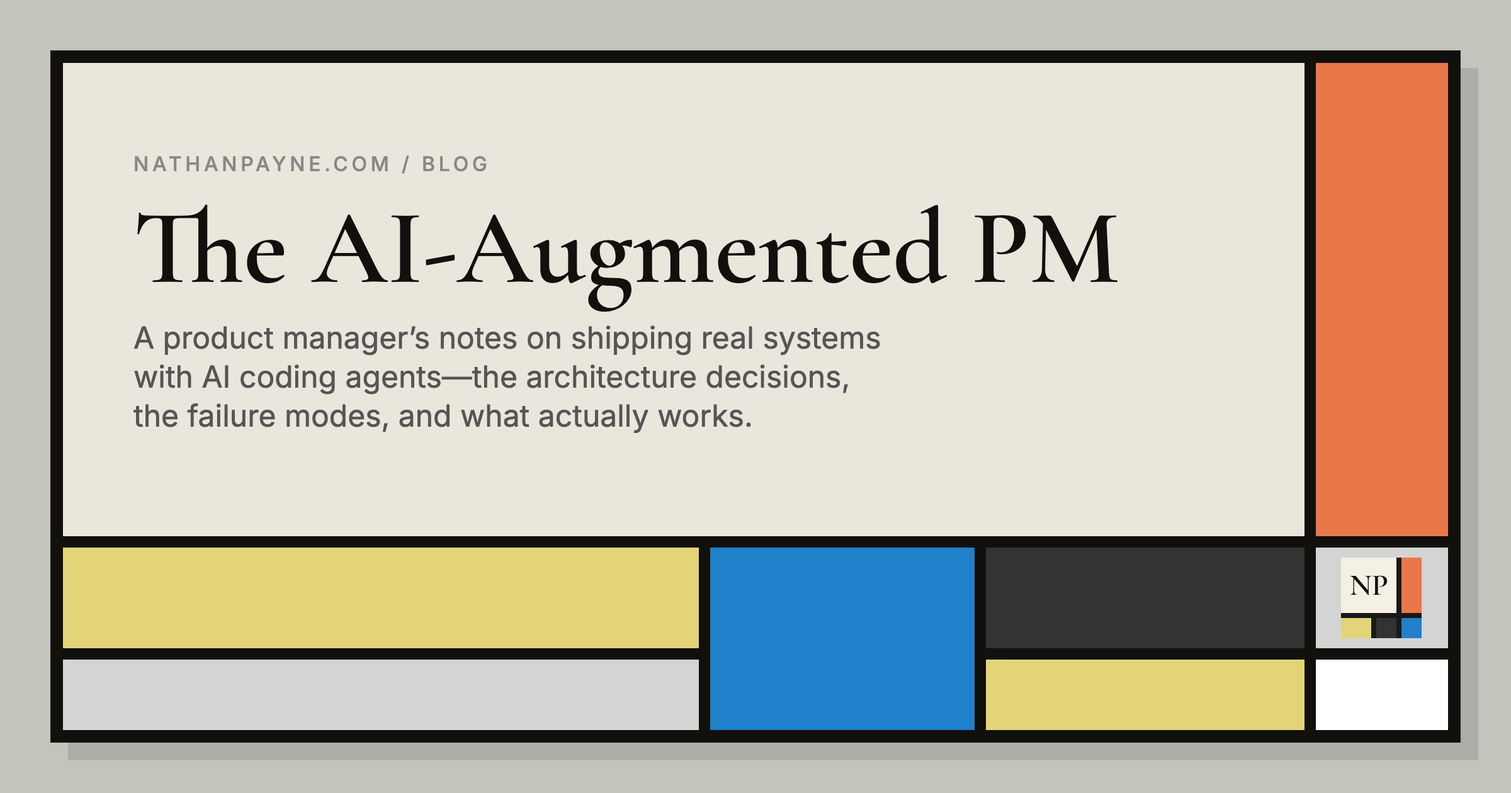
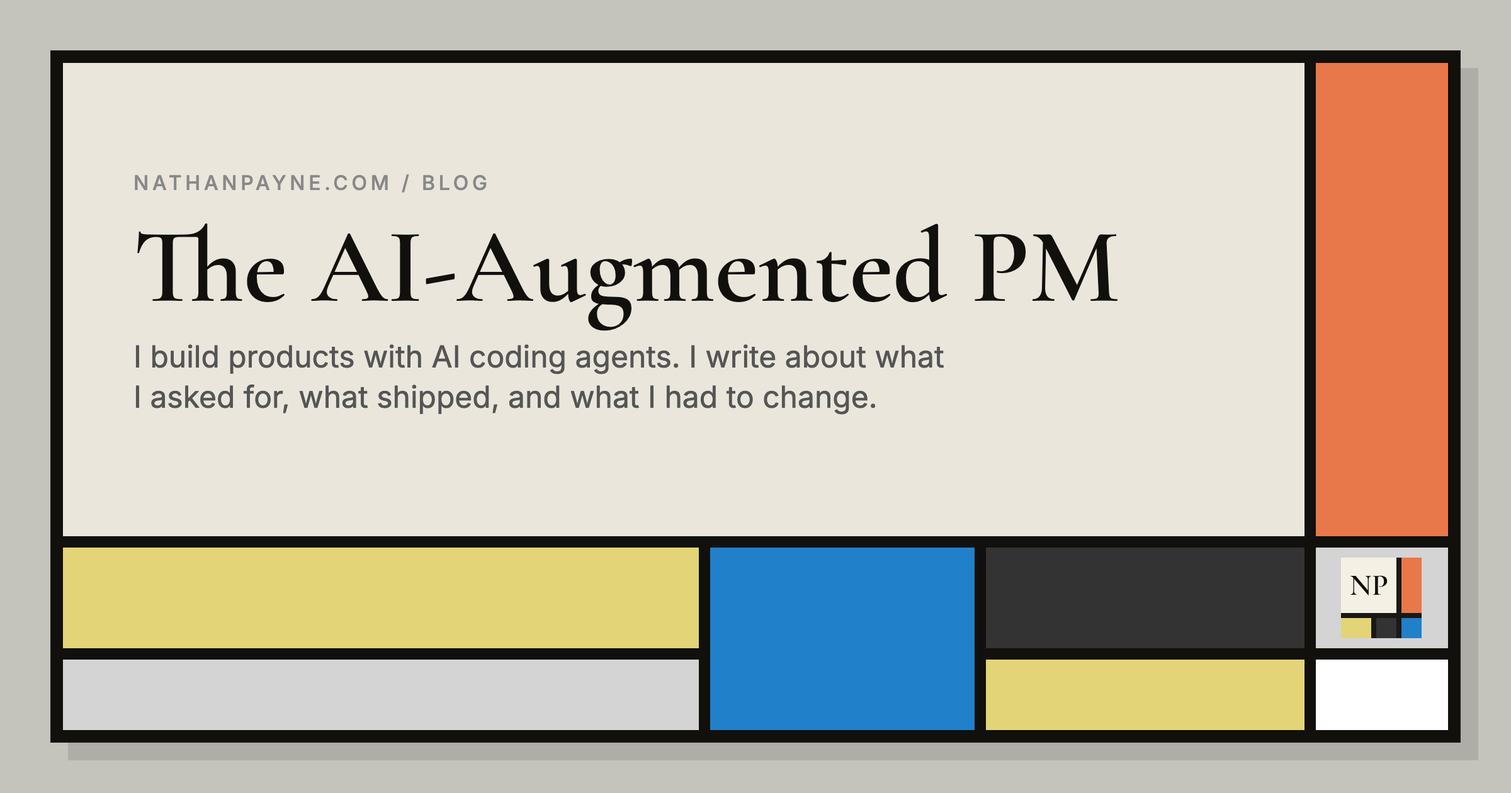
Refine blog index voice and share site copy with social previews (#1160)

Changed region(s): [[0.0938, 0.1857, 0.75, 0.5571]]

diff --git a/tests/blog-pages.test.js b/tests/blog-pages.test.js
@@ -3,6 +3,7 @@ import { readFileSync } from 'fs';
 import { resolve } from 'path';
 import { EXPECTED_BLOG_EDITORIAL_ORDER } from './helpers/blog-editorial-order.js';
 import { writeSanitizedDOM } from './helpers/dom.js';
+import { parseFrontmatter } from '../scripts/lib/parse-frontmatter.mjs';
 
 const homepageHtml = readFileSync(resolve(__dirname, '../dist/index.html'), 'utf-8');
 const blogIndexHtml = readFileSync(resolve(__dirname, '../dist/blog/index.html'), 'utf-8');
@@ -11,6 +12,15 @@ const blogPostHtml = readFileSync(
   'utf-8',
 );
 const firebaseConfig = JSON.parse(readFileSync(resolve(__dirname, '../firebase.json'), 'utf-8'));
+const rawBlogPageCopy = parseFrontmatter(
+  readFileSync(resolve(__dirname, '../src/content/site-copy/blog.md'), 'utf-8'),
+);
+const blogPageCopy = {
+  title: rawBlogPageCopy.title.trim(),
+  description: rawBlogPageCopy.description.trim(),
+  homepageWritingDescription: rawBlogPageCopy.homepageWritingDescription.trim(),
+};
+const ogCards = JSON.parse(readFileSync(resolve(__dirname, '../.astro/og-cards.json'), 'utf-8'));
 
 function setupDOM(html) {
   // Scripts are removed on a detached document and the doctype preserved by
@@ -59,18 +69,52 @@ describe('Blog Pages', () => {
     const ogImage = document.querySelector('meta[property="og:image"]');
     const twitterTitle = document.querySelector('meta[name="twitter:title"]');
 
-    expect(title?.textContent).toBe('The AI-Augmented PM | Nathan Payne');
-    expect(heading?.textContent).toBe('The AI-Augmented PM');
+    expect(title?.textContent).toBe(`${blogPageCopy.title} | Nathan Payne`);
+    expect(heading?.textContent).toBe(blogPageCopy.title);
     expect(canonical?.getAttribute('href')).toBe('https://nathanpayne.com/blog/');
     expect(postLink).not.toBeNull();
-    expect(ogTitle?.getAttribute('content')).toBe('The AI-Augmented PM | Nathan Payne');
-    expect(twitterTitle?.getAttribute('content')).toBe('The AI-Augmented PM | Nathan Payne');
+    expect(ogTitle?.getAttribute('content')).toBe(`${blogPageCopy.title} | Nathan Payne`);
+    expect(twitterTitle?.getAttribute('content')).toBe(`${blogPageCopy.title} | Nathan Payne`);
     // og:image carries a ?v=<hash> cache-busting query so social
     // platforms re-fetch the image after each deploy (see commit 49d2c39).
     // The base URL stays stable; only the query varies.
     expect(ogImage?.getAttribute('content')).toMatch(
       /^https:\/\/nathanpayne\.com\/og\/blog\.png\?v=[A-Za-z0-9_-]+$/,
     );
+  });
+
+  it('uses the page frontmatter description for the blog introduction and metadata', () => {
+    setupDOM(blogIndexHtml);
+
+    expect(document.querySelector('.hero .deck')?.textContent).toBe(blogPageCopy.description);
+    for (const selector of [
+      'meta[name="description"]',
+      'meta[property="og:description"]',
+      'meta[name="twitter:description"]',
+    ]) {
+      expect(document.querySelector(selector)?.getAttribute('content')).toBe(
+        blogPageCopy.description,
+      );
+    }
+    const jsonLd = JSON.parse(
+      document.querySelector('script[type="application/ld+json"]').textContent,
+    );
+    expect(jsonLd['@graph'].find((entry) => entry['@type'] === 'CollectionPage').description).toBe(
+      blogPageCopy.description,
+    );
+  });
+
+  it('uses the homepage rendition from page frontmatter for the Writing introduction', () => {
+    expect(document.querySelector('.about-block--writing p')?.textContent).toBe(
+      blogPageCopy.homepageWritingDescription,
+    );
+  });
+
+  it('renders the same frontmatter title and introduction on the blog social card', () => {
+    expect(ogCards.blog).toMatchObject({
+      heading: blogPageCopy.title,
+      description: blogPageCopy.description,
+    });
   });
 
   it('blog post page includes article metadata and screenshot embeds', () => {

diff --git a/src/content.config.ts b/src/content.config.ts
@@ -3,6 +3,15 @@ import { glob } from 'astro/loaders';
 import { BLOG_CATEGORIES, HOMEPAGE_WRITING_LIMIT } from './lib/blog-order';
 import { MUX_PLAYBACK_ID_PATTERN } from '../scripts/lib/mux-playback-id.mjs';
 
+const siteCopy = defineCollection({
+  loader: glob({ pattern: '**/*.md', base: './src/content/site-copy' }),
+  schema: z.object({
+    title: z.string().trim().min(1),
+    description: z.string().trim().min(1),
+    homepageWritingDescription: z.string().trim().min(1).optional(),
+  }),
+});
+
 const projects = defineCollection({
   // `projects` is the only collection that takes .mdx. A case-study page
   // interleaves DecisionLedger / ConstraintStrip / LearningLedger between
@@ -452,6 +461,7 @@ const certifications = defineCollection({
 });
 
 export const collections = {
+  siteCopy,
   blog,
   projects,
   bio,

diff --git a/plans/correctness-pass-2026-10-06/blog-index-voice-comparison.md b/plans/correctness-pass-2026-10-06/blog-index-voice-comparison.md
@@ -1,0 +1,170 @@
+# Blog index and homepage: approval document
+
+Updated on 2026-10-07 after owner copy approval. Draft: `codex/blog-index-voice` in the attached `blog-index-voice` worktree. Baseline: `68827d183093fdc9500c0263b1078751067ae2fd`, the deployed Perfect Score merge. This is the owner-approved copy and supporting implementation prepared for the PR; it has not been merged or deployed.
+
+The patch was rebased onto current main `c28f782e6ede4c93395d5d6f2fc70606c12ed7c5`; the additional main change is a separate Five Across audit record and does not alter these article or template sources.
+
+## Approval scope
+
+This document shows all ten final blog cards, both introductions, and every supporting file change. The owner approved the copy in the chat on 2026-10-07, including the 270-character Perfect Score deck and the 261-character Silence deck, and requested two final changes before the PR: trim Every Reviewer and rename the shared source folder to site-copy with collection siteCopy. Both are applied. These three cards differ from main; the other seven retain their approved descriptions. Approval authority remains the owner's messages in the chat.
+
+## Introductions and social preview
+
+**Blog introduction and social preview: 111 characters**
+
+> I build products with AI coding agents. I write about what I asked for, what shipped, and what I had to change.
+
+**Homepage Writing introduction: 57 characters**
+
+> I write about the products I build with AI coding agents.
+
+Both use “products.” The homepage is a deliberately shorter rendition, rather than a near-duplicate. The blog introduction fits the social card, so that card uses the same description with no separate OG version. The visible page, its metadata and CollectionPage structured data, and the social card all read that one field.
+
+Before, the blog and social template each held:
+
+> A product manager’s notes on shipping real systems with AI coding agents—the architecture decisions, the failure modes, and what actually works.
+
+Before, the homepage Writing introduction was:
+
+> Selected writing on shipping software with AI coding agents—scope, review, and the decisions that don’t show up in the diff.
+
+## All ten blog cards
+
+Order matches the current index. Counts measure Unicode characters in the parsed frontmatter description, including spaces and punctuation, without the YAML quotes. The requested review band is 242–275 characters. All ten cards are within it. Every Reviewer is now 273 characters after the owner-requested punctuation trim.
+
+**1. [The Product Did Not Travel](../../src/content/blog/the-product-did-not-travel.md): 242 characters; unchanged from main**
+
+> A bingo app built for a cruise ran a second event for a different host. By Saturday afternoon, nobody was marking squares. The host's account sent me back to the cruise data, where a dinner ritual had been hiding inside the engagement totals.
+
+**2. [Silence Is Not an Approval](../../src/content/blog/silence-is-not-an-approval.md): 261 characters; revised in this follow-up**
+
+> My review pipeline kept counting a reviewer that hadn't answered as one that had. Local fixes helped, but each path still decided what silence could prove. I set a rule for one kind of silence and accepted the extra waiting. The broader contract isn't finished.
+
+**3. [Every Reviewer Was Right, and the Pull Request Was Still Wrong](../../src/content/blog/every-reviewer-was-right.md): 273 characters; revised in this follow-up**
+
+> Two pull requests drew 72 Codex findings. I couldn't fault one; both closed unmerged. One grew from 35 lines to 2,136 for a requirement that later shipped in 377. I was asked five times how to proceed, never whether the machinery under review still belonged in the product.
+
+**4. [1,513 Lines for One Dash: The Requirement Nobody Questioned](../../src/content/blog/autofix-was-the-whole-cost.md): 246 characters; unchanged from main**
+
+> I wanted this site to follow one Chicago rule. An unrequested auto-fixer drew 42 of 57 review findings; cutting it ended the rewrite-safety churn. Without an adapter, the replacement linter would've skipped post metadata and still reported green.
+
+**5. [A Perfect Score on the Wrong Axis: 116 Review Findings, Zero Rejected, One Escape](../../src/content/blog/perfect-score-wrong-axis.md): 270 characters; revised in this follow-up**
+
+> An eleven-PR batch recorded 122 dispositions; no finding was rejected as factually wrong. A P1 shipped; its post-merge finding joined the tally. The rule it broke had been raised on a sibling PR twelve hours earlier, then fixed and validated there before this PR merged.
+
+**6. [The HTML Mock-up Is the Spec: How I Got Visual Work Out of Claude Code](../../src/content/blog/html-mockups-as-spec.md): 250 characters; unchanged from main**
+
+> Claude kept giving me layouts that didn't match what I had in mind. I asked it for standalone HTML mock-ups, picked a target, then handed it back beside the live page: make this look like that. I still had to keep the decision and check what shipped.
+
+**7. [Agent Approval Workflow and the Genesis of Mergepath](../../src/content/blog/agent-approval-workflow-genesis-of-mergepath.md): 274 characters; unchanged from main**
+
+> The agents knew the review rule and still pushed straight to main. I added branch rules, reviewer identities, and automated outside review to make the process harder to skip. Three weeks of failures became the system behind Mergepath, with each control's limits spelled out.
+
+**8. [Six PRs, One Bug: What AI Agents Actually Get Wrong](../../src/content/blog/six-prs-one-bug-agent-failure-modes.md): 263 characters; unchanged from main**
+
+> My billing app showed different formatting in the editor, preview, and sent email. After six PRs, I gave the next agent a brief that required an audit before more code. The fix brought Preview and the test email together, but didn't reach the recipient's invoice.
+
+**9. [Two Blues, One Composition: How a Design Critique Became a Forensics Exercise](../../src/content/blog/two-blues-one-composition.md): 243 characters; unchanged from main**
+
+> Claude found two blues in my Mondrian-inspired projects page. I could defend both sources; the page still looked wrong. Sampling two painting reproductions helped me choose a palette rule, and showed which of the model's numbers had no source.
+
+**10. [How Making a Page Responsive Led to a Full Astro Site Implementation](../../src/content/blog/how-a-responsive-fix-became-an-astro-migration.md): 249 characters; unchanged from main**
+
+> Fixing a mobile bug put me face to face with a blog generator that couldn't reproduce its own output. Four hours later, an Astro scaffold merged. I chose a build chain to make publishing practical, knowing it would bring maintenance work of its own.
+
+## Changed decks: before and after
+
+**Perfect Score**
+
+Before on main: 325 characters:
+
+> An eleven-PR review batch recorded 122 dispositions and zero findings rejected as factually wrong. The finding for the P1 that shipped was deferred to follow-up 75 seconds after it was posted. The rule the defect turned on had been raised on a sibling PR twelve hours earlier; the implementation was then fixed and validated.
+
+After: 270 characters:
+
+> An eleven-PR batch recorded 122 dispositions; no finding was rejected as factually wrong. A P1 shipped; its post-merge finding joined the tally. The rule it broke had been raised on a sibling PR twelve hours earlier, then fixed and validated there before this PR merged.
+
+The new deck explicitly places the finding after merge. “There before this PR merged” identifies the sibling as the location of the earlier fix and validation. Twelve hours still modifies when the rule was raised, rather than the fix or validation. “No finding was rejected as factually wrong” preserves the distinction from the two recorded process rebuttals. The finding joins the disposition tally, paying off the metric argument. The 75-second deferral interval is intentionally omitted from this shorter deck; it remains in takeaway 2, the body and the diagram.
+
+**Silence**
+
+Before on main: 255 characters:
+
+> My review pipeline kept counting a reviewer that hadn't answered as one that had. Local fixes helped, but each path still decided what silence could prove. I had to decide the rule myself, including what progress should cost when the evidence was missing.
+
+After: 261 characters:
+
+> My review pipeline kept counting a reviewer that hadn't answered as one that had. Local fixes helped, but each path still decided what silence could prove. I set a rule for one kind of silence and accepted the extra waiting. The broader contract isn't finished.
+
+The ending states the owner's decision and accepted cost. “One kind” preserves the partial scope. “Isn't finished” applies the owner's optional voice nit and leaves the wider contract incomplete from the article's dated vantage.
+
+**Every Reviewer**
+
+Before on main: 277 characters:
+
+> Two pull requests drew 72 Codex findings. I couldn't fault one, and both closed unmerged. One grew from 35 lines to 2,136 for a requirement that later shipped in 377. I was asked five times how to proceed, never whether the machinery under review still belonged in the product.
+
+After: 273 characters:
+
+> Two pull requests drew 72 Codex findings. I couldn't fault one; both closed unmerged. One grew from 35 lines to 2,136 for a requirement that later shipped in 377. I was asked five times how to proceed, never whether the machinery under review still belonged in the product.
+
+The owner's exact punctuation edit removes four characters without changing either claim or their relationship.
+
+## Shared frontmatter
+
+The new [site-copy entry](../../src/content/site-copy/blog.md) contains:
+
+```yaml
+---
+title: "The AI-Augmented PM"
+description: "I build products with AI coding agents. I write about what I asked for, what shipped, and what I had to change."
+homepageWritingDescription: "I write about the products I build with AI coding agents."
+---
+```
+
+It is loaded through Astro's new `siteCopy` collection, outside the blog-post collection. The owner-requested `site-copy` name distinguishes this content directory from Astro's `src/pages/` route directory. It does not create an eleventh post, change RSS ordering or alter the selected Writing links. The blog page and blog OG template read `title` and `description`; the homepage reads `homepageWritingDescription`. Every copy field has a consumer. There is no hardcoded fallback to the old introduction. The schema rejects blank fields, and the templates stop the build when their required entry or field is missing.
+
+## Every supporting change
+
+| File | Change |
+|---|---|
+| [src/content/site-copy/blog.md](../../src/content/site-copy/blog.md) | New shared frontmatter entry for the blog title/introduction/social copy and shorter homepage Writing introduction. |
+| [src/content.config.ts](../../src/content.config.ts) | Registers the siteCopy collection with non-empty title/description and an optional, non-empty homepage Writing field. |
+| [src/pages/blog/index.astro](../../src/pages/blog/index.astro) | Reads the shared page entry for the visible title, introduction, metadata and structured description; rejects a missing entry. |
+| [src/pages/og-templates/blog.astro](../../src/pages/og-templates/blog.astro) | Reads the same title and description; removes the copied literals and rejects a missing entry. |
+| [src/pages/index.astro](../../src/pages/index.astro) | Reads the homepage Writing rendition from the shared entry; rejects missing copy. Post title selection is unchanged. |
+| [src/content/blog/perfect-score-wrong-axis.md](../../src/content/blog/perfect-score-wrong-axis.md) | Changes only description to the 270-character deck shown above. |
+| [src/content/blog/silence-is-not-an-approval.md](../../src/content/blog/silence-is-not-an-approval.md) | Changes only description to the 261-character deck shown above. |
+| [src/content/blog/every-reviewer-was-right.md](../../src/content/blog/every-reviewer-was-right.md) | Changes only description: the approved “, and both closed unmerged” becomes “; both closed unmerged,” bringing the card from 277 to 273 characters. |
+| [plans/correctness-pass-2026-10-06/perfect-score-wrong-axis-ledger.md](../../plans/correctness-pass-2026-10-06/perfect-score-wrong-axis-ledger.md) | Updates existing R14/R21 descriptions and deck quotations in place; retains their evidence, verdicts and timings. |
+| [tests/blog-pages.test.js](../../tests/blog-pages.test.js) | Checks rendered blog title/introduction/metadata, homepage Writing copy and actual OG-card text against the frontmatter source. Existing title assertions now use that source. |
+| [screenshots/og/blog.png](../../screenshots/og/blog.png) | Refreshes only the blog-index social-card reference for the new introduction; generated output still comes from the build. |
+| [docs/agents/code-modification-rules.md](../../docs/agents/code-modification-rules.md) | Documents where page copy lives, its consumers and missing-copy behavior. |
+| [docs/agents/repository-overview.md](../../docs/agents/repository-overview.md) | Adds the shared page-copy source to the file inventory. |
+| [.ai_context.md](../../.ai_context.md) | Adds the same source to the entry-point map. |
+| [plans/correctness-pass-2026-10-06/blog-index-voice-comparison.md](../../plans/correctness-pass-2026-10-06/blog-index-voice-comparison.md) | This complete approval packet: all ten cards, introductions, file inventory, meaning review and validation. |
+
+All three changed article bodies are byte-identical to main. Every other post frontmatter field, including SEO descriptions, titles, dates, ranks, takeaways and pullquotes, is unchanged. No article heading, anchor, table, diagram, code, link or image moves or changes. There are no layout, route or ordering changes, new dependencies, checker changes, or edits to the earlier batch's disputed comparison counts.
+
+## Manual meaning review
+
+| Claim | Evidence and qualification |
+|---|---|
+| Perfect Score: 122 dispositions and no factual rejection | Existing ledger R13 and the article's disposition table. Two rebuttals are process objections; the new deck does not call them factual rejections. |
+| Perfect Score: finding after merge, then part of the tally | R14 records merge at 03:59:00Z, finding at 04:00:34Z and deferral at 04:01:49Z. The deck states the ordering; the body retains the 94- and 75-second intervals. |
+| Perfect Score: sibling finding, fix and validation | R21 records the July 29 15:45:37Z blocking finding, July 30 00:34:51Z validation and 03:59:00Z merge. The twelve-hour label belongs only to the finding, and the earlier fix was on the sibling. |
+| Silence: one rule and extra waiting | Its existing Decision section and ledger R29–R30 record the September 24 owner decision, September 25 implementation and accepted waits. Resume, retry, timeout and Codex failover remain. |
+| Silence: wider contract incomplete | Existing ledger R31 and the body leave #878 open for the shared contract, remaining states and downstream delivery, as of the dated article snapshot. This is not a fresh issue-state audit. |
+| Other seven cards | Their descriptions match the baseline exactly. The full index is shown here so these existing choices remain visible during approval. |
+
+## Validation and checker exception
+
+The final siteCopy rename and Every Reviewer trim build successfully across 43 pages. Lint passes; Vale retains advisory heading/table capitalization warnings under the sentence-case convention. Typecheck passes with zero errors and zero warnings. The complete unit suite passes 1,215 assertions with 6 skips, including the actual rendered OG-card/frontmatter regression. Source/rendered checks confirm all ten index cards, article decks and RSS descriptions match frontmatter, all ten article bodies match main byte for byte, every other post frontmatter field is unchanged, and every card is within 242–275 characters. The final browser suite passes 369 assertions with 51 skips against this exact build through the documented external-server fallback with file-by-file verification and the normal /404-to-/404.html mapping.
+
+A controlled frontmatter mutation changed the blog page/metadata, homepage and generated OG image. The image changed by 147,585 pixels above the comparison threshold. Blank title, description or homepage text failed validation; a missing homepage field or whole entry stopped the build. The draft source was restored after each probe. The blog image's existing fit check passed and its new text was visually inspected.
+
+For the current article sources, `verify-brevity.py` reports exactly one protected-token failure on Perfect Score: `75 seconds` occurs once less because it was deliberately removed from the deck. Its zero-to-no wording is advisory and preserves the rejection qualification. Every other protected token and every code/diagram/table block matches. Silence passes, with advisory notes for its description edit and the added word “one.” The checker is unchanged. This exception is supported by manual meaning review, not treated as proof of fidelity by the checker.
+
+Connective prose remains unchanged for all three edited articles: 3,132 words for Perfect Score and 1,738 for Silence; Every Reviewer's edit is punctuation and one conjunction in frontmatter only. Whole-file counts change from 4,276 to 4,267 and from 3,073 to 3,075 respectively. These are metadata edits, not another body compression pass.
+
+Chromium desktop hover/keyboard, mobile layout and reduced-motion probes passed. A WebKit probe initially timed out; a fresh-load check against both the deployed baseline build and this revised draft revealed the desktop content successfully. Both engines loaded the homepage, index and changed posts at 375px without overflow or uncaught script errors. This is Chromium/WebKit evidence; the native Safari app was not separately tested. Initial probe failures and the preview-runner fallback are preserved in the validation logs.

diff --git a/plans/correctness-pass-2026-10-06/perfect-score-wrong-axis-ledger.md b/plans/correctness-pass-2026-10-06/perfect-score-wrong-axis-ledger.md
@@ -30,7 +30,7 @@ Page source: `src/content/blog/perfect-score-wrong-axis.md`. Surface: `https://n
 | R18 | #797's own record: last of the batch, ~24 h; 27 badged findings in 8 Codex rounds; 5 CodeRabbit submissions, 3 pre-merge, 2 substantial; 5 Phase 4b reviews, 4 dismissed approvals, 5th on the exact head; 20 commits; every required check green; all but one finding dispositioned; 16 review objects + 2 clean acks = 18 passes before the escape | L16, L31, L45, L49, L120, L126, L186 | SUPPORTED | All reproduce (with R2's caveat on the +2); combined status `success`; the one unmarked thread is the CodeRabbit root at 23:04:07Z | `pulls/797`, `/reviews`, `/comments`; `commits/76f0ded3…/status` |
 | R19 | Five bare triggers 03:52:56–03:53:18 UTC, body `@coderabbitai, try again.`; CodeRabbit's "with focus on …" paraphrase and "does not re-review already reviewed commits"; two invocations finished with no findings, three bare acks; an earlier review trailed its ack by almost nine minutes; three earlier CodeRabbit reviews | L47 | SUPPORTED | Timestamps, bodies and counts reproduce; ack 01:39:33Z -> review 01:48:19Z = 8 m 46 s; pre-merge CodeRabbit reviews 23:04:08Z, 01:48:19Z, 02:01:58Z | `issues/797/comments`; `pulls/797/reviews` |
 | R20 | "#809 one minute later"; #810 merged 04:28:05 UTC, "twenty-eight minutes"; eight regression assertions (3 + 5 controls); 93/93; "the P1 from #797" | L51 | SUPPORTED | #809 at 04:01:29Z (55 s); 27 m 31 s finding to merge; 4 added `pass` lines, the fourth inside a 5-literal loop; approval body verbatim | `issues/809`; `pulls/810`; `git show 415d3178 -- tests/test_check_doc_ownership.sh`; `pulls/810/reviews` |
-| R21 | #791: title; merged 3 h 17 m before #797; five Codex findings from CommonMark's block rules; the P1 quotation; "markdown-it-py 4.2.0 agreement on 18 adversarial fixtures"; P1 12 h 13 m before the merge; deck and takeaway 2 attach twelve hours only to the finding, with fix/validation afterward; both PRs changed `tests/test_check_sync_manifest.sh`, the file the P1 names | description, takeaway 2, L21, L55, L128, L134, L180 | SUPPORTED | 6 Codex threads on #791, 5 of which name CommonMark (matcher stated); blocking review 4810248977 `CHANGES_REQUESTED` at 2026-07-29 15:45:37Z, 12 h 13 m 23 s before #797's merge, P1 at `tests/test_check_sync_manifest.sh:1361`; validation approval 4814102598 `APPROVED` at 2026-07-30 00:34:51Z, 3 h 24 m 09 s before #797's 03:59:00Z merge | `pulls/791`, `/comments`, `/reviews/4810248977`, `/reviews/4814102598`, `/files`; `pulls/797` `.merged_at`; `pulls/797/files` |
+| R21 | #791: title; merged 3 h 17 m before #797; five Codex findings from CommonMark's block rules; the P1 quotation; "markdown-it-py 4.2.0 agreement on 18 adversarial fixtures"; P1 12 h 13 m before the merge; deck and takeaway 2 attach twelve hours only to the finding, with sibling fix/validation afterward; the deck explicitly puts that validation before this PR merged; both PRs changed `tests/test_check_sync_manifest.sh`, the file the P1 names | description, takeaway 2, L21, L55, L128, L134, L180 | SUPPORTED | 6 Codex threads on #791, 5 of which name CommonMark (matcher stated); blocking review 4810248977 `CHANGES_REQUESTED` at 2026-07-29 15:45:37Z, 12 h 13 m 23 s before #797's merge, P1 at `tests/test_check_sync_manifest.sh:1361`; validation approval 4814102598 `APPROVED` at 2026-07-30 00:34:51Z, 3 h 24 m 09 s before #797's 03:59:00Z merge | `pulls/791`, `/comments`, `/reviews/4810248977`, `/reviews/4814102598`, `/files`; `pulls/797` `.merged_at`; `pulls/797/files` |
 | R22 | Backlog of nine issues (761, 774, 777, 780, 781, 782, 785, 786, 788); the three named items; "a backlog item about the backlog of the previous backlog batch" | L61 | SUPPORTED | Nine distinct issue numbers fall out of the ten batch PR titles; #774, #777, #785 titles as described; #781's title names the 2026-07-28 batch | `pulls/<N>` `.title`; `issues/{774,777,781,785}` `.title` |
 | R23 | Nine PRs #789–#797 opened within thirty-six seconds; joined by #800; all eleven show `nathanjohnpayne` as author; "about twenty-four hours" | L31, L63 | SUPPORTED | 04:12:07Z–04:12:43Z = 36 s; 23 h 46 m 53 s to #797's merge; `.user.login` identical on all eleven | `pulls/<N>` `.created_at`, `.merged_at`, `.user.login` |
 | R24 | The lanes: Codex tags findings P0–P3; CodeRabbit is the advisory second opinion; Phase 4b posts under an agent identity different from the authoring agent's | L45, L63 | SUPPORTED | P1–P3 observed in the population, P0 named in mergepath's REVIEW_POLICY.md; `review-policy.yml` L135 "CodeRabbit review is advisory"; Phase 4b under `nathanpayne-codex`, authoring agent Claude | `fb4dfd0:.github/review-policy.yml`; review authorship |
@@ -159,9 +159,9 @@ Net: of 29 prior corrections, 26 landed cleanly, one landed with a new error in 
 **SUPPORTED, every figure and both quotations.** Marker parse over replies, attributed to the `in_reply_to_id` root: 122 roots, classes `addressed-elsewhere` 111, `deferred-to-followup` 9, `rebuttal-recorded` 2; no root carries two classes, no marker lands on a non-root, 12 roots carry none. All 111 `addressed-elsewhere` replies match `commit [0-9a-f]{7}`. Of the nine deferrals, five name an issue (#797 x2 -> #807/#808, #797 x1 -> #809, #810 x2 -> #811/#812) and the four on #795 each contain the quoted sentence verbatim. No class resembling rejection exists. Source: `derive.py` section C2 over the same pull; the deferral and rebuttal reply bodies printed there.
 
 ### R14: The escape finding's record
-> The revised deck says "The finding for the P1 that shipped was deferred to follow-up 75 seconds after it was posted." Takeaway 2 says "The finding for the escaped P1 received a deferred disposition 75 seconds after it was posted." The source also says "At 04:00:34 UTC—ninety-four seconds after the merge—CodeRabbit posted one more finding … 'Indented list/paragraph lines are blanked as code, and no test would catch it.'" (L33); "'only exercises fenced and inline code, so nothing fails today.'" (L43); "the finding posted 94 seconds after the merge, on exactly the tree that merged" (L47); "The escape, posted at 04:00:34 UTC—94 seconds after PR #797 merged." (L49); "CodeRabbit tagged the finding 'Functional Correctness / Major'" (L51); "Thread `3679855498` is one of the 134, one of the 18 CodeRabbit threads, and one of the 122 dispositions—marked `deferred-to-followup`, naming #809, seventy-five seconds after it was posted." (L96); the diagram's "94 seconds" and "75 s" (L128, L136–L137)
+> The revised deck says "A P1 shipped; its post-merge finding joined the tally." Takeaway 2 says "The finding for the escaped P1 received a deferred disposition 75 seconds after it was posted." The source also says "At 04:00:34 UTC—ninety-four seconds after the merge—CodeRabbit posted one more finding … 'Indented list/paragraph lines are blanked as code, and no test would catch it.'" (L33); "'only exercises fenced and inline code, so nothing fails today.'" (L43); "the finding posted 94 seconds after the merge, on exactly the tree that merged" (L47); "The escape, posted at 04:00:34 UTC—94 seconds after PR #797 merged." (L49); "CodeRabbit tagged the finding 'Functional Correctness / Major'" (L51); "Thread `3679855498` is one of the 134, one of the 18 CodeRabbit threads, and one of the 122 dispositions—marked `deferred-to-followup`, naming #809, seventy-five seconds after it was posted." (L96); the diagram's "94 seconds" and "75 s" (L128, L136–L137)
 
-**SUPPORTED, every particular.** Comment 3679855498: `created_at` 2026-07-30T04:00:34Z, `user.login` `coderabbitai[bot]`, `path` `scripts/ci/check_doc_ownership`, `commit_id` and `original_commit_id` both `76f0ded3c2b134f672ba660fef9acfd54fee4a3b`, which is `#797.head.sha`; #797 `merged_at` 2026-07-30T03:59:00Z, difference 94.0 s. The body opens `_🎯 Functional Correctness_ | _🟠 Major_ | _⚡ Quick win_` then the bolded headline the page quotes, and contains both "See [the audit](coderabbit-audit.md)" and "only exercises fenced and inline code, so nothing fails today". Its reply from `nathanpayne-codex` at 04:01:49Z (75 s) reads "[mergepath-resolve: deferred-to-followup] Valid post-merge CodeRabbit finding deferred per owner final-round instruction; nested Markdown list handling is tracked in #809." The thread is a root, is CodeRabbit-authored, and carries a marker, so it is inside all three populations. Re-read on 2026-10-07 for PR #1156: the 75 seconds runs from the finding at 04:00:34Z to its deferral reply at 04:01:49Z, not to the posting of the finding itself. The deck and takeaway 2 now name the finding and its later disposition as separate events. The page's silence on when the pass started ("plausible and unproven") matches the record: nothing on the issue timeline sits between the 03:53:42Z acknowledgement and the merge. Source: `gh api --paginate repos/nathanjohnpayne/mergepath/pulls/797/comments` -> `.id == 3679855498` and its reply; `gh api repos/nathanjohnpayne/mergepath/pulls/797` -> `.merged_at`, `.head.sha`.
+**SUPPORTED, every particular.** Comment 3679855498: `created_at` 2026-07-30T04:00:34Z, `user.login` `coderabbitai[bot]`, `path` `scripts/ci/check_doc_ownership`, `commit_id` and `original_commit_id` both `76f0ded3c2b134f672ba660fef9acfd54fee4a3b`, which is `#797.head.sha`; #797 `merged_at` 2026-07-30T03:59:00Z, difference 94.0 s. The body opens `_🎯 Functional Correctness_ | _🟠 Major_ | _⚡ Quick win_` then the bolded headline the page quotes, and contains both "See [the audit](coderabbit-audit.md)" and "only exercises fenced and inline code, so nothing fails today". Its reply from `nathanpayne-codex` at 04:01:49Z (75 s) reads "[mergepath-resolve: deferred-to-followup] Valid post-merge CodeRabbit finding deferred per owner final-round instruction; nested Markdown list handling is tracked in #809." The thread is a root, is CodeRabbit-authored, and carries a marker, so it is inside all three populations. Re-read on 2026-10-07 for PR #1156: the 75 seconds runs from the finding at 04:00:34Z to its deferral reply at 04:01:49Z, not to the posting of the finding itself. The deck makes the post-merge ordering explicit and keeps the finding inside the disposition tally. The 75-second interval remains in takeaway 2, the body and diagram; it is omitted from the shorter card copy. The page's silence on when the pass started ("plausible and unproven") matches the record: nothing on the issue timeline sits between the 03:53:42Z acknowledgement and the merge. Source: `gh api --paginate repos/nathanjohnpayne/mergepath/pulls/797/comments` -> `.id == 3679855498` and its reply; `gh api repos/nathanjohnpayne/mergepath/pulls/797` -> `.merged_at`, `.head.sha`.
 
 ### R15: Triggers and Codex rounds
 > "| `@codex review` triggers | body is exactly that string | 48 | … | Codex rounds | 38 review objects + 3 comment-only clean verdicts | 41 |" (L75–L76); "the '41 review rounds'" (L174)
@@ -194,7 +194,7 @@ Net: of 29 prior corrections, 26 landed cleanly, one landed with a new error in 
 **SUPPORTED, all of it, as rounding where it rounds.** #809 `created_at` 2026-07-30T04:01:29Z, 55 s after the finding. #810 opened 04:07:32Z, merged 04:28:05Z; 04:28:05Z minus 04:00:34Z is 27 m 31 s. The #810 squash commit `415d3178` adds four `pass "Case 14s1: …"` lines to `tests/test_check_doc_ownership.sh`, the fourth inside `for code_body in` over five literals (a link-shaped indented line after an ATX heading, a blank line, a setext underline, a thematic break, and a blockquoted heading), so 3 + 5 = 8 executed assertions, which is what #810's body claims ("add regression coverage for all three rendered-prose forms and five code-boundary controls") alongside "`tests/test_check_doc_ownership.sh`—93/93". The Phase 4b approval on #810 (`nathanpayne-codex`, 04:25:33Z, `APPROVED`, head `d8c5c221…`) reads "The P1 from #797 is fixed with explicit CommonMark state tracking and a 93-case ownership regression suite". "Text-flow" is the page's gloss, not a quotation. Source: `gh api repos/nathanjohnpayne/mergepath/issues/809 --jq .created_at`; `gh api repos/nathanjohnpayne/mergepath/pulls/810 --jq '.created_at, .merged_at, .body'`; `git -C ~/GitHub/mergepath show 415d3178 -- tests/test_check_doc_ownership.sh`; `pulls/810/reviews`.
 
 ### R21: PR #791's record and the shared file
-> "PR #791—same batch, merged three hours and seventeen minutes before #797—is titled 'fix(781): marker-bounded help extraction and CommonMark-correct fence and indent parsing.' Its record contains five Codex findings derived from CommonMark's block rules; a Phase 4b `CHANGES_REQUESTED` whose P1 states, verbatim, the exact rule the escape later turned on: '`para` is set for every emitted nonblank line, but CommonMark's "indented code cannot interrupt" rule only applies to paragraphs'; and a Phase 4b approval recording 'direct markdown-it-py 4.2.0 agreement on 18 adversarial fixtures' … That blocking P1 landed twelve hours and thirteen minutes before #797 merged. The two PRs are not merely siblings: both changed `tests/test_check_sync_manifest.sh`, the file the P1 was raised against." (L55); the pullquote (L21) and diagram node (L134). The revised deck says "The rule the defect turned on had been raised on a sibling PR twelve hours earlier; the implementation was then fixed and validated." Takeaway 2 says "The rule it broke had been derived from the spec and named in a blocking external review on a sibling PR twelve hours earlier. The implementation was then fixed and validated."
+> "PR #791—same batch, merged three hours and seventeen minutes before #797—is titled 'fix(781): marker-bounded help extraction and CommonMark-correct fence and indent parsing.' Its record contains five Codex findings derived from CommonMark's block rules; a Phase 4b `CHANGES_REQUESTED` whose P1 states, verbatim, the exact rule the escape later turned on: '`para` is set for every emitted nonblank line, but CommonMark's "indented code cannot interrupt" rule only applies to paragraphs'; and a Phase 4b approval recording 'direct markdown-it-py 4.2.0 agreement on 18 adversarial fixtures' … That blocking P1 landed twelve hours and thirteen minutes before #797 merged. The two PRs are not merely siblings: both changed `tests/test_check_sync_manifest.sh`, the file the P1 was raised against." (L55); the pullquote (L21) and diagram node (L134). The revised deck says "The rule it broke had been raised on a sibling PR twelve hours earlier, then fixed and validated there before this PR merged." Takeaway 2 says "The rule it broke had been derived from the spec and named in a blocking external review on a sibling PR twelve hours earlier. The implementation was then fixed and validated."
 
 **SUPPORTED, with the findings count's matcher and chronology stated.** #791's title is as quoted; `merged_at` 2026-07-30T00:41:52Z, 3 h 17 m 08 s before #797. Loosest matcher: Codex roots on #791, six, all on `tests/test_check_sync_manifest.sh`; narrowed to bodies that name CommonMark, five (3670931103, 3674736179, 3675809995, 3675810003, 3678298509); the sixth, 3670931111 "Restore outer list indentation when nested lists end", is about list structure but does not cite the spec, so "five … derived from CommonMark's block rules" is the narrow count and is defensible. Review 4810248977 (`nathanpayne-codex`, 2026-07-29T15:45:37Z, `CHANGES_REQUESTED`, automated adapter) contains "**P1** tests/test_check_sync_manifest.sh:1361: `para` is set for every emitted nonblank line, but CommonMark's "indented code cannot interrupt" rule only applies to paragraphs." (curly quotes in the source), 12 h 13 m 23 s before #797's 2026-07-30T03:59:00Z merge. Review 4814102598 (`APPROVED`, 2026-07-30T00:34:51Z) records "markdown-it-py 4.2.0 agreement on 18 adversarial fixtures", 3 h 24 m 09 s before that merge. The two review objects were re-read on 2026-10-07: the twelve-hour label belongs only to the blocking finding; the deck and takeaway 2 now put fix/validation afterward rather than implying those also occurred twelve hours before merge. `pulls/791/files` lists `tests/test_check_sync_manifest.sh`; so does `pulls/797/files`. Source: `gh api repos/nathanjohnpayne/mergepath/pulls/791`; `pulls/791/comments`; `pulls/791/reviews/4810248977` and `/4814102598` `.submitted_at`, `.body`; `pulls/797` `.merged_at`; `pulls/{791,797}/files --jq '.[].filename'`.
 

diff --git a/docs/agents/code-modification-rules.md b/docs/agents/code-modification-rules.md
@@ -177,6 +177,7 @@ Static assets (favicons, robots.txt, OG fonts) live in `public/` and are copied 
 
 ### Markdown / Content Collections
 
+- Page copy lives in `src/content/site-copy/**/*.md`. `siteCopy/blog` supplies the blog index title and description to both the page and its OG template; `homepageWritingDescription` supplies the homepage Writing introduction. Edit these frontmatter fields instead of copying text into templates. Required fields are non-empty, and the templates fail the build if the entry or the homepage field is missing. The current description fits the social card, so no separate OG rendition is needed.
 - Blog posts use Astro Content Collections with a Zod schema defined in `src/content.config.ts`.
 - Blog frontmatter includes: `title`, `seoTitle` (optional), `shortTitle` (optional), `description`, `seoDescription` (optional), `category` (required enum), `featured` (defaults to `false`), `homepageRank` (optional, 1–5, unique; places the post in the homepage Writing list), `author`, `date`, `tags`, `image`, `draft`, `pullquotes`, `sidebar`.
 - A blog post's `description` does two jobs: it is the `/blog/` index card and the article deck under the title, so it must help a reader choose the post *and* orient a reader who already opened it (#1084). Aim for two or three sentences near 240–285 characters; that is a guide for an even index, not a quota, so do not pad a strong short one. Open on the concrete situation and name the stakes. For a product-judgment post, name the decision it turns on (ownership, scope) rather than teasing it: reveal the question, let the article earn the answer. Not every card should be a cliffhanger. Every fact in it must trace to the post's body, takeaways or pull quotes; it is a claim surface under `docs/agents/blog-revision-process.md` like any other. `seoDescription` is the separate search snippet, and tests pin some of them verbatim.

diff --git a/docs/agents/repository-overview.md b/docs/agents/repository-overview.md
@@ -30,6 +30,7 @@ Astro pages, layouts, and content collections generate the full static site into
 | `src/components/resume/*` | Resume section components and Logo.dev-backed company/school/issuer logo rendering. |
 | `src/components/posthog.astro` | PostHog analytics bootstrap; no-ops when `PUBLIC_POSTHOG_PROJECT_TOKEN` is unset. |
 | `src/content.config.ts` | Content Collections schema definition (Zod-validated frontmatter). |
+| `src/content/site-copy/blog.md` | Shared blog index title/description for the page, metadata and social card, plus the homepage Writing introduction. Loaded through the `siteCopy` collection; it is not a blog post. |
 | `src/plugins/remark-mermaid.mjs` | Mermaid metadata contract—requires accessible title/description fields, accepts an optional visible `caption`, and rejects fences on unsupported Markdown surfaces. |
 | `src/plugins/rehype-mermaid-accessibility.mjs` | Accessibility wrapper and clean render-error fallback around `rehype-mermaid`; builds the `<figure>` / `role="img"` graphic / `<figcaption>` contract both diagram surfaces share. |
 | `src/plugins/rehype-figure-captions.mjs` | Rehype plugin—wraps images in `<figure>` with a `<figcaption>` from alt text. Does not number them. |

diff --git a/src/content/blog/perfect-score-wrong-axis.md b/src/content/blog/perfect-score-wrong-axis.md
@@ -2,7 +2,7 @@
 title: "A Perfect Score on the Wrong Axis: 116 Review Findings, Zero Rejected, One Escape"
 seoTitle: "A Perfect Score on the Wrong Axis"
 shortTitle: "Perfect Score, Wrong Axis"
-description: "An eleven-PR review batch recorded 122 dispositions and zero findings rejected as factually wrong. The finding for the P1 that shipped was deferred to follow-up 75 seconds after it was posted. The rule the defect turned on had been raised on a sibling PR twelve hours earlier; the implementation was then fixed and validated."
+description: "An eleven-PR batch recorded 122 dispositions; no finding was rejected as factually wrong. A P1 shipped; its post-merge finding joined the tally. The rule it broke had been raised on a sibling PR twelve hours earlier, then fixed and validated there before this PR merged."
 seoDescription: "An AI review batch recorded 122 finding dispositions with zero findings rejected as factually wrong and still shipped a P1. The reviews were scoped to one diff. The second implementation still broke a rule already corrected on its sibling."
 category: "Agent Systems"
 author: "Nathan Payne"

diff --git a/src/content/blog/every-reviewer-was-right.md b/src/content/blog/every-reviewer-was-right.md
@@ -2,7 +2,7 @@
 title: "Every Reviewer Was Right, and the Pull Request Was Still Wrong"
 seoTitle: "Every Reviewer Was Right"
 shortTitle: "Every Reviewer Was Right"
-description: "Two pull requests drew 72 Codex findings. I couldn't fault one, and both closed unmerged. One grew from 35 lines to 2,136 for a requirement that later shipped in 377. I was asked five times how to proceed, never whether the machinery under review still belonged in the product."
+description: "Two pull requests drew 72 Codex findings. I couldn't fault one; both closed unmerged. One grew from 35 lines to 2,136 for a requirement that later shipped in 377. I was asked five times how to proceed, never whether the machinery under review still belonged in the product."
 seoDescription: "72 Codex findings I could not fault, two pull requests closed unmerged, and three healthy controls with as many rounds. Review volume was not the signal. Who owned the requirement was."
 category: "Agent Systems"
 homepageRank: 2

diff --git a/src/content/blog/silence-is-not-an-approval.md b/src/content/blog/silence-is-not-an-approval.md
@@ -2,7 +2,7 @@
 title: "Silence Is Not an Approval"
 seoTitle: "Silence Is Not an Approval"
 shortTitle: "Silence Is Not an Approval"
-description: "My review pipeline kept counting a reviewer that hadn't answered as one that had. Local fixes helped, but each path still decided what silence could prove. I had to decide the rule myself, including what progress should cost when the evidence was missing."
+description: "My review pipeline kept counting a reviewer that hadn't answered as one that had. Local fixes helped, but each path still decided what silence could prove. I set a rule for one kind of silence and accepted the extra waiting. The broader contract isn't finished."
 seoDescription: "An AI code review pipeline that read a reviewer's silence as approval, why case-by-case fixes did not retire the cause, and the product decision that set a rule for making progress when evidence is missing."
 category: "Agent Systems"
 homepageRank: 3

diff --git a/.ai_context.md b/.ai_context.md
@@ -41,6 +41,7 @@ Static personal portfolio, project case-study, and editorial content site built 
 | `src/styles/global.css` | Shared styles—Mondrian homepage, project detail pages, blog, motion system, responsive breakpoint, accessibility |
 | `src/content/blog/**/*.md` | Recursively discovered Markdown blog posts with required category and an optional featured flag |
 | `src/content.config.ts` | Astro Content Collections schema (Zod) |
+| `src/content/site-copy/blog.md` | Frontmatter for the blog index, its social card and the homepage Writing introduction; separate from the post collection |
 | `astro.config.mjs` | Astro configuration—site URL, integrations, markdown plugins |
 | `firebase.json` | Firebase Hosting config—cache headers, security headers, deploy ignore rules |
 | `AGENTS.md` | AI agent instructions and behavioral rules |

diff --git a/src/content/site-copy/blog.md b/src/content/site-copy/blog.md
@@ -1,0 +1,5 @@
+---
+title: "The AI-Augmented PM"
+description: "I build products with AI coding agents. I write about what I asked for, what shipped, and what I had to change."
+homepageWritingDescription: "I write about the products I build with AI coding agents."
+---
